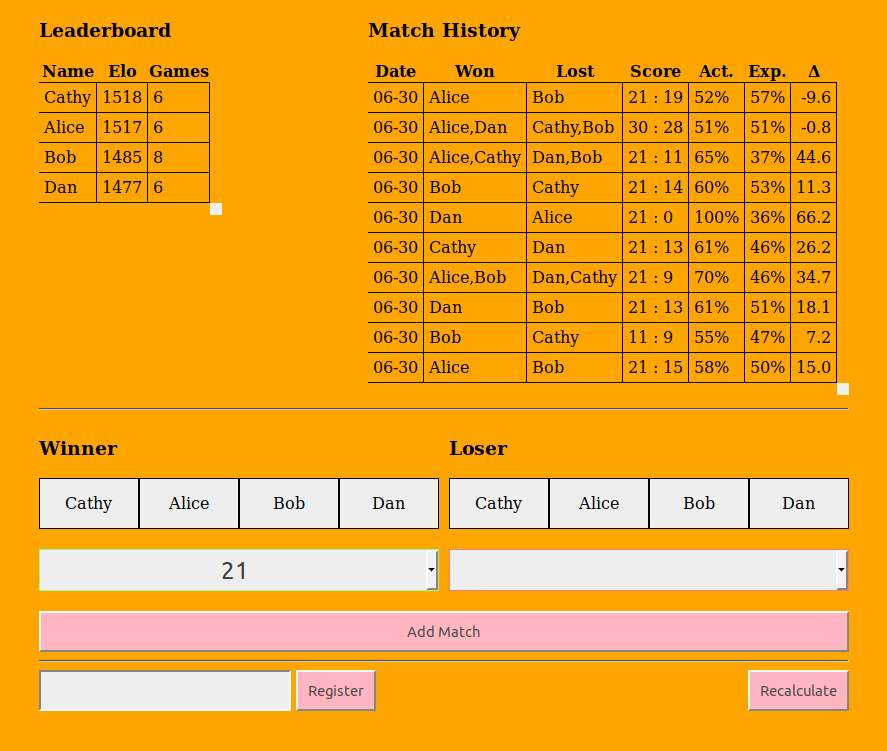
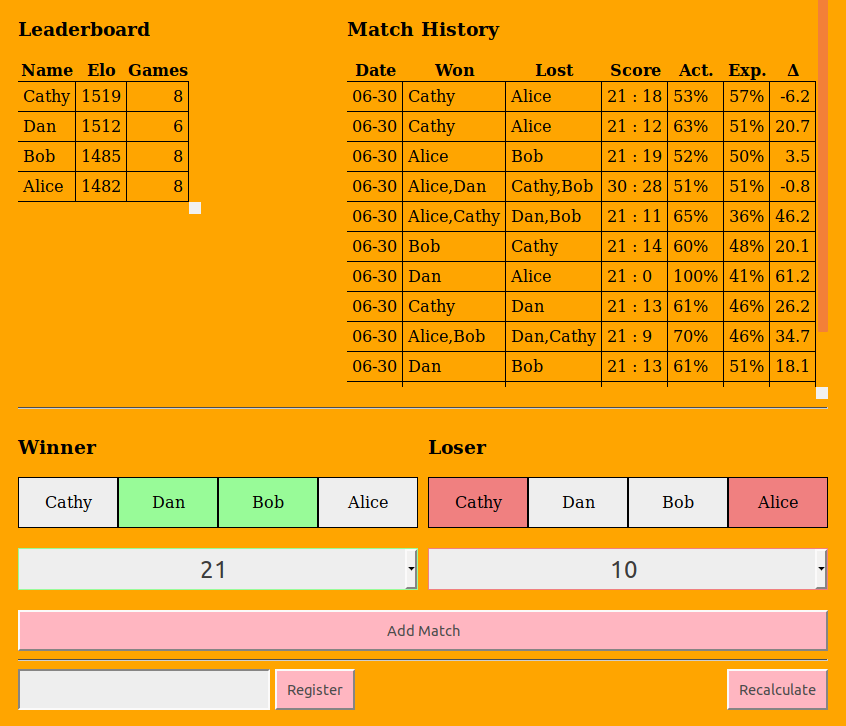
Corrected image and score calculation to make it so double scores are zero-sum and distribute elo

diff --git a/officepong/routes.py b/officepong/routes.py
@@ -29,7 +29,8 @@ def add_match():
     win_names, lose_names = request.form.getlist('winner'), request.form.getlist('loser')
     win_score, lose_score = int(request.form['win_score']), int(request.form['lose_score'])
 
-    if lose_score + 2 > win_score:
+    # Minimize misclicks
+    if lose_score + 2 > win_score or (win_score not in (11, 21) and lose_score + 2 != win_score):
         return redirect(url_for('index'))
     
     # Don't add score if there's a problem with the names
@@ -54,11 +55,11 @@ def add_match():
 
     # Update elo and #games for both losers and winners
     for name in win_names:
-        e = players[name]['elo'] + delta
+        e = players[name]['elo'] + delta / len(win_names)
         g = players[name]['games'] + 1
         db.session.query(Player).filter_by(name=name).update({Player.elo: e, Player.games: g})
     for name in lose_names:
-        e = players[name]['elo'] - delta
+        e = players[name]['elo'] - delta / len(lose_names)
         g = players[name]['games'] + 1
         db.session.query(Player).filter_by(name=name).update({Player.elo: e, Player.games: g})
 
@@ -93,10 +94,10 @@ def recalculate():
 
         # Update player totals
         for name in winners:
-            players[name]['elo'] += delta
+            players[name]['elo'] += delta / len(winners)
             players[name]['games'] += 1
         for name in losers:
-            players[name]['elo'] -= delta
+            players[name]['elo'] -= delta / len(losers)
             players[name]['games'] += 1
 
         # Submit match
